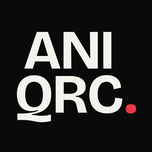
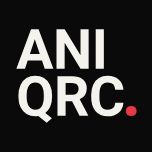
Add files via upload

Changed region(s): [[0.1053, 0.1842, 0.9211, 0.8158], [0.7368, 0.5, 0.8158, 0.6053]]

diff --git a/anteprima-intro-3d.html b/anteprima-intro-3d.html
@@ -7,11 +7,11 @@
 <title>ANIQRC — Anteprima intro 3D</title>
 <link rel="preconnect" href="https://fonts.googleapis.com">
 <link rel="preconnect" href="https://fonts.gstatic.com" crossorigin>
-<link href="https://fonts.googleapis.com/css2?family=Bricolage+Grotesque:opsz,wght@12..96,300..800&family=Manrope:wght@300;400;500;600;700&family=JetBrains+Mono:wght@400;500&display=swap" rel="stylesheet">
+<link href="https://fonts.googleapis.com/css2?family=Roboto:ital,wght@0,300;0,400;0,500;0,700;0,900;1,400&display=swap" rel="stylesheet">
 <style>
   :root{ --bg:#F4F2EC; --ink:#0A0A0A; --ink-soft:#34332F; --accent:#E63946; }
   *{ margin:0; padding:0; box-sizing:border-box; }
-  body{ background:var(--bg); font-family:'Manrope',sans-serif; overflow:hidden; }
+  body{ background:var(--bg); font-family:'Roboto',sans-serif; overflow:hidden; }
 
   #intro{ position:fixed; inset:0; z-index:10; background:#0C0B0A; display:flex; align-items:center; justify-content:center; overflow:hidden; animation: introDawn 1.15s cubic-bezier(.4,0,.2,1) 5.6s forwards; }
   @keyframes introDawn{ from{ background-color:#0C0B0A; } to{ background-color:#F4F2EC; } }
@@ -22,7 +22,7 @@
   @keyframes glowIn{ to{opacity:1;} } @keyframes glowOut{ to{opacity:0;} }
 
   .intro-stage{ position:relative; z-index:3; display:flex; flex-direction:column; align-items:center; gap:30px; text-align:center; padding:24px; }
-  .intro-tag{ font-family:'Bricolage Grotesque',sans-serif; font-weight:500; font-size:clamp(16px,2.6vw,26px); letter-spacing:-.01em; color:#E9E4D7; max-width:660px; line-height:1.34; text-shadow:0 2px 34px rgba(0,0,0,.55); animation: tagOut .8s ease 5.35s forwards; }
+  .intro-tag{ font-family:'Roboto',sans-serif; font-weight:500; font-size:clamp(16px,2.6vw,26px); letter-spacing:-0.0055em; color:#E9E4D7; max-width:660px; line-height:1.34; text-shadow:0 2px 34px rgba(0,0,0,.55); animation: tagOut .8s ease 5.35s forwards; }
   .intro-tag span{ display:inline-block; opacity:0; transform:translateY(12px); filter:blur(8px); animation: tagw 1s cubic-bezier(.3,.85,.3,1) forwards; animation-delay: calc(.55s + var(--w) * .09s); }
   .intro-tag .hl{ color:#FF5A66; font-weight:600; }
   @keyframes tagw{ to{ opacity:1; transform:none; filter:blur(0);} }
@@ -45,16 +45,16 @@
   @keyframes ipH{ 0%{opacity:0; transform:scaleX(0);} 100%{opacity:1; transform:scaleX(1);} }
   @keyframes ipDot{ 0%{opacity:0; transform:scale(0);} 45%{opacity:1; transform:scale(2.4); filter:drop-shadow(0 0 16px rgba(230,57,70,.95));} 100%{opacity:1; transform:scale(1); filter:drop-shadow(0 0 5px rgba(230,57,70,.4));} }
   @keyframes ipLens{ 0%{opacity:0; transform:translate(200px,200px) rotate(765deg);} 16%{opacity:1;} 100%{opacity:1; transform:translate(200px,200px) rotate(45deg);} }
-  .intro-word{ font-family:'Bricolage Grotesque',sans-serif; font-weight:700; font-size:clamp(50px,10vw,108px); letter-spacing:-.055em; line-height:1; color:var(--ink); display:flex; perspective:600px; }
+  .intro-word{ font-family:'Roboto',sans-serif; font-weight:700; font-size:clamp(50px,10vw,108px); letter-spacing:-0.0303em; line-height:1; color:var(--ink); display:flex; perspective:600px; }
   .intro-word span{ display:inline-block; opacity:0; transform-origin:50% 100%; transform:rotateX(-95deg) translateY(.22em); animation: letter3d 1s cubic-bezier(.2,.85,.25,1) forwards; animation-delay: calc(7.7s + var(--i) * .12s); }
   .intro-word .q{ color:var(--accent); }
   @keyframes letter3d{ 0%{opacity:0; transform:rotateX(-95deg) translateY(.22em);} 55%{opacity:1;} 100%{opacity:1; transform:rotateX(0) translateY(0);} }
-  .intro-sub{ font-family:'Manrope',sans-serif; font-weight:600; font-size:clamp(12.5px,2vw,16px); letter-spacing:.14em; text-transform:uppercase; color:var(--ink-soft); opacity:0; transform:translateY(8px); animation: subIn 1s ease 8.5s forwards; }
+  .intro-sub{ font-family:'Roboto',sans-serif; font-weight:600; font-size:clamp(12.5px,2vw,16px); letter-spacing:.14em; text-transform:uppercase; color:var(--ink-soft); opacity:0; transform:translateY(8px); animation: subIn 1s ease 8.5s forwards; }
   @keyframes subIn{ to{opacity:1; transform:none;} }
 
-  .replay{ position:fixed; left:20px; bottom:18px; z-index:50; font-family:'JetBrains Mono',monospace; font-size:12px; letter-spacing:.16em; text-transform:uppercase; color:var(--ink); background:#FBFAF6; border:1px solid #D4D0C5; border-radius:999px; padding:10px 16px; cursor:pointer; display:inline-flex; gap:9px; align-items:center; box-shadow:0 6px 20px rgba(20,18,14,.12); transition:transform .2s ease, border-color .2s ease; }
+  .replay{ position:fixed; left:20px; bottom:18px; z-index:50; font-family:'Roboto',sans-serif; font-size:12px; letter-spacing:.16em; text-transform:uppercase; color:var(--ink); background:#FBFAF6; border:1px solid #D4D0C5; border-radius:999px; padding:10px 16px; cursor:pointer; display:inline-flex; gap:9px; align-items:center; box-shadow:0 6px 20px rgba(20,18,14,.12); transition:transform .2s ease, border-color .2s ease; }
   .replay:hover{ transform:translateY(-1px); border-color:var(--accent); color:var(--accent); }
-  .hint{ position:fixed; right:20px; bottom:20px; z-index:50; font-family:'JetBrains Mono',monospace; font-size:11px; letter-spacing:.12em; color:#75736B; }
+  .hint{ position:fixed; right:20px; bottom:20px; z-index:50; font-family:'Roboto',sans-serif; font-size:11px; letter-spacing:.12em; color:#75736B; }
 </style>
 </head>
 <body>
@@ -96,7 +96,7 @@ function initScene(){
   var scene=new THREE.Scene(); scene.fog=new THREE.FogExp2(0x0c0b0a,0.0125);
   var camera=new THREE.PerspectiveCamera(54,W/H,0.1,400); camera.position.set(0,0,72);
   var WORDS=[{t:'Sicurezza',s:1,c:0},{t:'Prevenzione',s:.92,c:1},{t:'Near miss',s:.8,c:0},{t:'Audit',s:.86,c:1},{t:'Eventi sentinella',s:.74,c:0},{t:'Checklist',s:.9,c:0},{t:'Barriere',s:.95,c:0},{t:'Evidenze',s:.84,c:0},{t:'Qualità',s:1,c:1},{t:'Procedure',s:.82,c:0},{t:'Esiti',s:.8,c:0},{t:'Cultura',s:.8,c:0}];
-  function makeText(txt,red){ var fs=96,pad=26,cv=document.createElement('canvas'),ctx=cv.getContext('2d'); var font="600 "+fs+"px 'Bricolage Grotesque', system-ui, sans-serif"; ctx.font=font; var w=Math.ceil(ctx.measureText(txt).width)+pad*2,h=fs+pad*2; cv.width=w; cv.height=h; ctx.font=font; ctx.textAlign='center'; ctx.textBaseline='middle'; if(red){ctx.shadowColor='rgba(230,57,70,.55)';ctx.shadowBlur=30;ctx.fillStyle='#FF6470';}else{ctx.fillStyle='#E9E4D7';} ctx.fillText(txt,w/2,h/2); var tex=new THREE.CanvasTexture(cv); tex.anisotropy=4; return {tex:tex,aspect:w/h}; }
+  function makeText(txt,red){ var fs=96,pad=26,cv=document.createElement('canvas'),ctx=cv.getContext('2d'); var font="600 "+fs+"px 'Roboto', system-ui, sans-serif"; ctx.font=font; var w=Math.ceil(ctx.measureText(txt).width)+pad*2,h=fs+pad*2; cv.width=w; cv.height=h; ctx.font=font; ctx.textAlign='center'; ctx.textBaseline='middle'; if(red){ctx.shadowColor='rgba(230,57,70,.55)';ctx.shadowBlur=30;ctx.fillStyle='#FF6470';}else{ctx.fillStyle='#E9E4D7';} ctx.fillText(txt,w/2,h/2); var tex=new THREE.CanvasTexture(cv); tex.anisotropy=4; return {tex:tex,aspect:w/h}; }
   var words=[];
   for(var i=0;i<WORDS.length;i++){ var wd=WORDS[i],red=wd.c===1,o=makeText(wd.t,red); var mat=new THREE.MeshBasicMaterial({map:o.tex,transparent:true,opacity:0,depthWrite:false}); var hgt=3.5*wd.s,wid=hgt*o.aspect; var m=new THREE.Mesh(new THREE.PlaneGeometry(wid,hgt),mat); var ang=(i/WORDS.length)*Math.PI*2+(i%2?0.6:0),rad=13+(i%4)*4+Math.random()*5; m.position.set(Math.cos(ang)*rad*(0.7+Math.random()*0.5),(Math.random()*2-1)*15,-6-i*4.4-Math.random()*4); m.userData={base:0.4+(red?0.2:0.07),flare:0,drift:(Math.random()*0.6+0.2)*(i%2?1:-1),phase:Math.random()*6.28}; scene.add(m); words.push(m); }
   function radial(color,size,op){ var cv=document.createElement('canvas'); cv.width=cv.height=128; var ctx=cv.getContext('2d'); var g=ctx.createRadialGradient(64,64,0,64,64,64); g.addColorStop(0,'rgba('+color+',1)'); g.addColorStop(.25,'rgba('+color+',.7)'); g.addColorStop(1,'rgba('+color+',0)'); ctx.fillStyle=g; ctx.fillRect(0,0,128,128); var sp=new THREE.Sprite(new THREE.SpriteMaterial({map:new THREE.CanvasTexture(cv),transparent:true,blending:THREE.AdditiveBlending,depthWrite:false,depthTest:false,opacity:(op==null?1:op)})); sp.scale.set(size,size,1); return sp; }

diff --git a/adesione.html b/adesione.html
@@ -26,12 +26,12 @@
 <meta name="twitter:image" content="https://aniqrc.it/og-image.png">
 <link rel="preconnect" href="https://fonts.googleapis.com">
 <link rel="preconnect" href="https://fonts.gstatic.com" crossorigin>
-<link href="https://fonts.googleapis.com/css2?family=Bricolage+Grotesque:opsz,wght@12..96,300..800&family=Manrope:wght@300;400;500;600;700&family=JetBrains+Mono:wght@400;500&display=swap" rel="stylesheet">
+<link href="https://fonts.googleapis.com/css2?family=Roboto:ital,wght@0,300;0,400;0,500;0,700;0,900;1,400&display=swap" rel="stylesheet">
 <style>
   :root { --bg:#F4F2EC; --bg-warm:#EAE6DC; --bg-card:#FBFAF6; --ink:#0A0A0A; --soft:#34332F; --mute:#75736B; --accent:#E63946; --accent-deep:#C0202E; --rule:#D4D0C5; }
   * { margin:0; padding:0; box-sizing:border-box; }
   html { scroll-behavior:smooth; }
-  body { background:var(--bg); color:var(--ink); font-family:'Manrope',sans-serif; line-height:1.6; -webkit-font-smoothing:antialiased; }
+  body { background:var(--bg); color:var(--ink); font-family:'Roboto',sans-serif; line-height:1.6; -webkit-font-smoothing:antialiased; }
   .wrap { max-width:880px; margin:0 auto; padding:0 28px; }
   ::selection { background:var(--accent); color:var(--bg); }
 
@@ -39,20 +39,20 @@
   .nav-inner { max-width:1240px; margin:0 auto; padding:16px 28px; display:flex; justify-content:space-between; align-items:center; }
   .nav-logo { display:flex; align-items:center; gap:12px; text-decoration:none; }
   .nav-logo .nm { width:34px; height:34px; }
-  .nav-logo .nt { font-family:'Bricolage Grotesque',sans-serif; font-weight:700; font-size:20px; letter-spacing:-0.03em; color:var(--ink); }
+  .nav-logo .nt { font-family:'Roboto',sans-serif; font-weight:700; font-size:20px; letter-spacing:-0.0165em; color:var(--ink); }
   .nav-logo .nt .q { color:var(--accent); }
-  .nav-back { font-family:'JetBrains Mono',monospace; font-size:12px; letter-spacing:0.1em; text-transform:uppercase; color:var(--mute); text-decoration:none; }
+  .nav-back { font-family:'Roboto',sans-serif; font-size:12px; letter-spacing:0.1em; text-transform:uppercase; color:var(--mute); text-decoration:none; }
   .nav-back:hover { color:var(--accent); }
 
   header.hd { padding:64px 0 36px; }
-  .eyebrow { font-family:'JetBrains Mono',monospace; font-size:12px; letter-spacing:0.28em; text-transform:uppercase; color:var(--accent); margin-bottom:18px; }
-  h1 { font-family:'Bricolage Grotesque',sans-serif; font-weight:600; font-size:clamp(36px,6vw,60px); letter-spacing:-0.035em; line-height:1; margin-bottom:18px; }
+  .eyebrow { font-family:'Roboto',sans-serif; font-size:12px; letter-spacing:0.28em; text-transform:uppercase; color:var(--accent); margin-bottom:18px; }
+  h1 { font-family:'Roboto',sans-serif; font-weight:600; font-size:clamp(36px,6vw,60px); letter-spacing:-0.0193em; line-height:1; margin-bottom:18px; }
   h1 .q { color:var(--accent); }
   .lead { font-size:17px; color:var(--soft); max-width:620px; }
 
   form { padding-bottom:80px; }
   .grp { margin-top:40px; }
-  .grp-title { font-family:'JetBrains Mono',monospace; font-size:12px; letter-spacing:0.2em; text-transform:uppercase; color:var(--accent); margin-bottom:18px; display:flex; align-items:center; gap:12px; }
+  .grp-title { font-family:'Roboto',sans-serif; font-size:12px; letter-spacing:0.2em; text-transform:uppercase; color:var(--accent); margin-bottom:18px; display:flex; align-items:center; gap:12px; }
   .grp-title::before { content:''; width:24px; height:1.5px; background:var(--accent); }
   .fields { display:grid; grid-template-columns:1fr 1fr; gap:18px; }
   @media (max-width:640px){ .fields { grid-template-columns:1fr; } }
@@ -62,7 +62,7 @@
   label .req { color:var(--accent); }
   input[type=text], input[type=email], input[type=tel], select, textarea {
     background:var(--bg-card); border:1.5px solid var(--rule); border-radius:8px;
-    padding:13px 16px; font-family:'Manrope',sans-serif; font-size:15px; color:var(--ink);
+    padding:13px 16px; font-family:'Roboto',sans-serif; font-size:15px; color:var(--ink);
     transition:border-color 0.25s, background 0.25s; width:100%;
   }
   input:focus, select:focus, textarea:focus { outline:none; border-color:var(--accent); background:#fff; }
@@ -74,13 +74,13 @@
   .consent .choice { align-items:flex-start; margin-bottom:14px; font-size:14px; }
   .consent .choice:last-child { margin-bottom:0; }
   .consent a { color:var(--accent); }
-  .btn { display:inline-flex; align-items:center; gap:10px; padding:16px 34px; border-radius:0; font-size:16px; font-weight:600; border:none; cursor:pointer; background:var(--accent); color:var(--bg); transition:all 0.3s cubic-bezier(0.16,1,0.3,1); margin-top:32px; font-family:'Manrope',sans-serif; }
+  .btn { display:inline-flex; align-items:center; gap:10px; padding:16px 34px; border-radius:0; font-size:16px; font-weight:600; border:none; cursor:pointer; background:var(--accent); color:var(--bg); transition:all 0.3s cubic-bezier(0.16,1,0.3,1); margin-top:32px; font-family:'Roboto',sans-serif; }
   .btn:hover { background:var(--accent-deep); transform:translateY(-2px); box-shadow:0 8px 24px rgba(230,57,70,0.28); }
   .alt { margin-top:20px; font-size:14px; color:var(--mute); }
   .alt a { color:var(--accent); }
 
   footer { background:var(--ink); color:var(--bg); padding:40px 0; }
-  .foot-inner { max-width:1240px; margin:0 auto; padding:0 28px; display:flex; justify-content:space-between; align-items:center; flex-wrap:wrap; gap:16px; font-family:'JetBrains Mono',monospace; font-size:11px; letter-spacing:0.12em; text-transform:uppercase; color:rgba(244,242,236,0.55); }
+  .foot-inner { max-width:1240px; margin:0 auto; padding:0 28px; display:flex; justify-content:space-between; align-items:center; flex-wrap:wrap; gap:16px; font-family:'Roboto',sans-serif; font-size:11px; letter-spacing:0.12em; text-transform:uppercase; color:rgba(244,242,236,0.55); }
   .foot-inner .q { color:var(--accent); }
 </style>
 <script type="application/ld+json">
@@ -208,7 +208,7 @@
     </fieldset>
 
     <div style="margin-top: 20px;">
-        <button type="submit" style="padding: 10px 20px; cursor: pointer;">Invia la domanda →</button>
+        <button type="submit" class="btn" style="margin-top:0;">Invia la domanda <span aria-hidden="true">→</span></button>
     </div>
 </form><p class="splitforms-attribution" style="margin-top:12px;font-size:11px;color:#888;text-align:right">
   Powered by <a href="https://splitforms.com" style="color:#888;text-decoration:none" target="_blank" rel="sponsored noopener">splitforms</a>

diff --git a/anteprima-mobile.html b/anteprima-mobile.html
@@ -6,14 +6,14 @@
 <meta name="viewport" content="width=device-width, initial-scale=1.0">
 <title>ANIQRC — Anteprima mobile / app</title>
 <style>
-  body{ margin:0; min-height:100vh; background:#2A2824; color:#EDE8DC; font-family:system-ui,sans-serif; display:flex; flex-direction:column; align-items:center; gap:16px; padding:26px 14px 48px; }
+  body{ margin:0; min-height:100vh; background:#2A2824; color:#EDE8DC; font-family:'Roboto',system-ui,sans-serif; display:flex; flex-direction:column; align-items:center; gap:16px; padding:26px 14px 48px; }
   h1{ font-size:18px; font-weight:600; margin:4px 0 0; }
   p.note{ max-width:560px; text-align:center; font-size:13.5px; line-height:1.5; color:#B9B3A7; margin:0 0 6px; }
   .phone{ width:392px; max-width:96vw; height:792px; max-height:82vh; background:#000; border-radius:42px; padding:12px; box-shadow:0 30px 80px rgba(0,0,0,.5); position:relative; }
   .phone::before{ content:''; position:absolute; top:20px; left:50%; transform:translateX(-50%); width:120px; height:26px; background:#000; border-radius:0 0 16px 16px; z-index:5; }
   .phone iframe{ width:100%; height:100%; border:0; border-radius:32px; background:#F4F2EC; display:block; }
   .row{ display:flex; gap:10px; flex-wrap:wrap; justify-content:center; }
-  .row button{ font-family:'JetBrains Mono',monospace; font-size:12px; letter-spacing:.06em; background:#EDE8DC; color:#1a1a1a; border:0; border-radius:999px; padding:9px 15px; cursor:pointer; }
+  .row button{ font-family:'Roboto',sans-serif; font-size:12px; letter-spacing:.06em; background:#EDE8DC; color:#1a1a1a; border:0; border-radius:999px; padding:9px 15px; cursor:pointer; }
 </style>
 </head>
 <body>
@@ -29,17 +29,17 @@
 <script>
 var INNER = [
 '<!DOCTYPE html><html lang="it"><head><meta charset="UTF-8"><meta name="viewport" content="width=device-width, initial-scale=1">',
-'<link href="https://fonts.googleapis.com/css2?family=Bricolage+Grotesque:opsz,wght@12..96,300..800&family=Manrope:wght@300;400;500;600;700&family=JetBrains+Mono:wght@400;500&display=swap" rel="stylesheet">',
+'<link href="https://fonts.googleapis.com/css2?family=Roboto:ital,wght@0,300;0,400;0,500;0,700;0,900;1,400&display=swap" rel="stylesheet">',
 '<style>',
 ':root{--bg:#F4F2EC;--bg-warm:#EAE6DC;--bg-card:#FBFAF6;--ink:#0A0A0A;--ink-soft:#34332F;--ink-mute:#75736B;--accent:#E63946;--rule:#D4D0C5;--rule-soft:#E2DED4;}',
 'html[data-theme="dark"]{--bg:#15140F;--bg-warm:#1C1A14;--bg-card:#201E18;--ink:#F2EFE8;--ink-soft:#CFC9BD;--ink-mute:#938E83;--rule:#34322B;--rule-soft:#2A2822;--accent:#F2616E;}',
 '*{margin:0;padding:0;box-sizing:border-box;-webkit-tap-highlight-color:transparent;}',
-'body{background:var(--bg);color:var(--ink);font-family:Manrope,sans-serif;line-height:1.6;transition:background .5s,color .5s;overflow-x:hidden;}',
+'body{background:var(--bg);color:var(--ink);font-family:Roboto,sans-serif;line-height:1.6;transition:background .5s,color .5s;overflow-x:hidden;}',
 'nav{position:fixed;top:0;left:0;right:0;z-index:100;background:color-mix(in srgb,var(--bg) 86%,transparent);backdrop-filter:blur(12px);border-bottom:1px solid var(--rule);}',
 '.nav-inner{display:flex;justify-content:space-between;align-items:center;padding:12px 18px;}',
 '.nav-logo{display:flex;align-items:center;gap:9px;text-decoration:none;}',
 '.nav-logo .nm{width:30px;height:30px;}',
-'.nav-logo .nt{font-family:Bricolage Grotesque,sans-serif;font-weight:700;font-size:19px;letter-spacing:-.03em;color:var(--ink);}',
+'.nav-logo .nt{font-family:Roboto,sans-serif;font-weight:700;font-size:19px;letter-spacing:-0.0165em;color:var(--ink);}',
 '.nav-logo .nt .q{color:var(--accent);}',
 '.nav-links{display:flex;gap:26px;align-items:center;}',
 '.nav-links a{font-size:14px;color:var(--ink-soft);text-decoration:none;}',
@@ -65,16 +65,16 @@ var INNER = [
 '}',
 '.wrap{max-width:1100px;margin:0 auto;padding:0 22px;position:relative;z-index:2;}',
 '.hero{min-height:78vh;display:flex;flex-direction:column;justify-content:center;}',
-'.eyebrow{font-family:JetBrains Mono,monospace;font-size:11px;letter-spacing:.2em;text-transform:uppercase;color:var(--ink-mute);margin-bottom:18px;}',
-'h1{font-family:Bricolage Grotesque,sans-serif;font-weight:800;font-size:clamp(44px,16vw,80px);line-height:.96;letter-spacing:-.05em;}',
+'.eyebrow{font-family:Roboto,sans-serif;font-size:11px;letter-spacing:.2em;text-transform:uppercase;color:var(--ink-mute);margin-bottom:18px;}',
+'h1{font-family:Roboto,sans-serif;font-weight:800;font-size:clamp(44px,16vw,80px);line-height:.96;letter-spacing:-0.0275em;}',
 'h1 .q{color:var(--accent);}',
 '.lead{font-size:17px;color:var(--ink-soft);max-width:540px;margin-top:20px;}',
 'section{position:relative;z-index:2;padding:64px 0;}',
-'.sec-label{font-family:JetBrains Mono,monospace;font-size:11px;letter-spacing:.2em;text-transform:uppercase;color:var(--accent);margin-bottom:14px;}',
-'h2{font-family:Bricolage Grotesque,sans-serif;font-weight:700;font-size:clamp(26px,7vw,38px);letter-spacing:-.03em;margin-bottom:14px;}',
+'.sec-label{font-family:Roboto,sans-serif;font-size:11px;letter-spacing:.2em;text-transform:uppercase;color:var(--accent);margin-bottom:14px;}',
+'h2{font-family:Roboto,sans-serif;font-weight:700;font-size:clamp(26px,7vw,38px);letter-spacing:-0.0165em;margin-bottom:14px;}',
 '.cards{display:grid;grid-template-columns:1fr;gap:14px;margin-top:24px;}',
 '.card{background:var(--bg-card);border:1px solid var(--rule);border-radius:16px;padding:22px;}',
-'.card h3{font-family:Bricolage Grotesque,sans-serif;font-size:19px;margin-bottom:6px;}',
+'.card h3{font-family:Roboto,sans-serif;font-size:19px;margin-bottom:6px;}',
 '.card p{color:var(--ink-mute);font-size:14px;}',
 '.manifesto{background:var(--ink);color:var(--bg);border-radius:22px;margin:0 18px;}',
 'html[data-theme="dark"] .manifesto{background:#100F0B;color:#F2EFE8;}',

diff --git a/anteprima-sfondo-aurora.html b/anteprima-sfondo-aurora.html
@@ -7,39 +7,39 @@
 <title>ANIQRC — Anteprima sfondo aurora</title>
 <link rel="preconnect" href="https://fonts.googleapis.com">
 <link rel="preconnect" href="https://fonts.gstatic.com" crossorigin>
-<link href="https://fonts.googleapis.com/css2?family=Bricolage+Grotesque:opsz,wght@12..96,300..800&family=Manrope:wght@300;400;500;600;700&family=JetBrains+Mono:wght@400;500&display=swap" rel="stylesheet">
+<link href="https://fonts.googleapis.com/css2?family=Roboto:ital,wght@0,300;0,400;0,500;0,700;0,900;1,400&display=swap" rel="stylesheet">
 <style>
   :root{ --bg:#F4F2EC; --bg-warm:#EAE6DC; --bg-card:#FBFAF6; --ink:#0A0A0A; --ink-soft:#34332F; --ink-mute:#75736B; --accent:#E63946; --rule:#D4D0C5; }
   html[data-theme="dark"]{ --bg:#15140F; --bg-warm:#1C1A14; --bg-card:#201E18; --ink:#F2EFE8; --ink-soft:#CFC9BD; --ink-mute:#938E83; --rule:#34322B; --accent:#F2616E; }
   *{ margin:0; padding:0; box-sizing:border-box; }
-  body{ background:var(--bg); color:var(--ink); font-family:'Manrope',sans-serif; line-height:1.6; -webkit-font-smoothing:antialiased; transition:background .5s ease, color .5s ease; }
+  body{ background:var(--bg); color:var(--ink); font-family:'Roboto',sans-serif; line-height:1.6; -webkit-font-smoothing:antialiased; transition:background .5s ease, color .5s ease; }
   .wrap{ max-width:1100px; margin:0 auto; padding:0 28px; position:relative; z-index:2; }
   nav{ position:fixed; top:0; left:0; right:0; z-index:100; backdrop-filter:blur(14px); background:color-mix(in srgb, var(--bg) 82%, transparent); border-bottom:1px solid var(--rule); }
   .nav-inner{ max-width:1100px; margin:0 auto; padding:14px 28px; display:flex; justify-content:space-between; align-items:center; }
-  .logo{ font-family:'Bricolage Grotesque',sans-serif; font-weight:700; font-size:20px; letter-spacing:-.03em; }
+  .logo{ font-family:'Roboto',sans-serif; font-weight:700; font-size:20px; letter-spacing:-0.0165em; }
   .logo .q{ color:var(--accent); }
   .nav-links{ display:flex; gap:24px; font-size:13.5px; color:var(--ink-soft); }
   .hero{ position:relative; min-height:96vh; display:flex; flex-direction:column; justify-content:center; }
-  .eyebrow{ font-family:'JetBrains Mono',monospace; font-size:12px; letter-spacing:.22em; text-transform:uppercase; color:var(--ink-mute); margin-bottom:22px; }
-  h1{ font-family:'Bricolage Grotesque',sans-serif; font-weight:800; font-size:clamp(48px,9vw,118px); line-height:.98; letter-spacing:-.05em; }
+  .eyebrow{ font-family:'Roboto',sans-serif; font-size:12px; letter-spacing:.22em; text-transform:uppercase; color:var(--ink-mute); margin-bottom:22px; }
+  h1{ font-family:'Roboto',sans-serif; font-weight:800; font-size:clamp(48px,9vw,118px); line-height:.98; letter-spacing:-0.0275em; }
   h1 .q{ color:var(--accent); }
   .lead{ font-size:clamp(17px,2.2vw,22px); color:var(--ink-soft); max-width:620px; margin-top:26px; }
   section{ position:relative; z-index:2; padding:90px 0; }
-  .sec-label{ font-family:'JetBrains Mono',monospace; font-size:12px; letter-spacing:.2em; text-transform:uppercase; color:var(--accent); margin-bottom:18px; }
-  h2{ font-family:'Bricolage Grotesque',sans-serif; font-weight:700; font-size:clamp(28px,4vw,46px); letter-spacing:-.03em; margin-bottom:18px; }
+  .sec-label{ font-family:'Roboto',sans-serif; font-size:12px; letter-spacing:.2em; text-transform:uppercase; color:var(--accent); margin-bottom:18px; }
+  h2{ font-family:'Roboto',sans-serif; font-weight:700; font-size:clamp(28px,4vw,46px); letter-spacing:-0.0165em; margin-bottom:18px; }
   p.body{ color:var(--ink-soft); max-width:680px; }
   .cards{ display:grid; grid-template-columns:repeat(3,1fr); gap:18px; margin-top:34px; }
   @media(max-width:820px){ .cards{ grid-template-columns:1fr; } }
   .card{ background:var(--bg-card); border:1px solid var(--rule); border-radius:16px; padding:26px; box-shadow:0 10px 30px rgba(20,18,14,.06); }
-  .card h3{ font-family:'Bricolage Grotesque',sans-serif; font-size:20px; margin-bottom:8px; }
+  .card h3{ font-family:'Roboto',sans-serif; font-size:20px; margin-bottom:8px; }
   .card p{ color:var(--ink-mute); font-size:14.5px; }
   .manifesto{ background:var(--ink); color:var(--bg); border-radius:24px; margin:0 28px; }
   html[data-theme="dark"] .manifesto{ background:#100F0B; color:#F2EFE8; }
   .manifesto .wrap{ padding-top:70px; padding-bottom:70px; }
   .manifesto h2{ color:inherit; }
   .manifesto p{ color:inherit; opacity:.82; max-width:680px; }
-  .toggle{ position:fixed; right:18px; bottom:18px; z-index:200; font-family:'JetBrains Mono',monospace; font-size:12px; letter-spacing:.14em; text-transform:uppercase; color:var(--ink); background:var(--bg-card); border:1px solid var(--rule); border-radius:999px; padding:11px 18px; cursor:pointer; box-shadow:0 8px 22px rgba(20,18,14,.14); }
-  .hint{ position:fixed; left:18px; bottom:18px; z-index:200; font-family:'JetBrains Mono',monospace; font-size:11px; letter-spacing:.1em; color:var(--ink-mute); }
+  .toggle{ position:fixed; right:18px; bottom:18px; z-index:200; font-family:'Roboto',sans-serif; font-size:12px; letter-spacing:.14em; text-transform:uppercase; color:var(--ink); background:var(--bg-card); border:1px solid var(--rule); border-radius:999px; padding:11px 18px; cursor:pointer; box-shadow:0 8px 22px rgba(20,18,14,.14); }
+  .hint{ position:fixed; left:18px; bottom:18px; z-index:200; font-family:'Roboto',sans-serif; font-size:11px; letter-spacing:.1em; color:var(--ink-mute); }
 </style>
 </head>
 <body>

diff --git a/404.html b/404.html
@@ -9,16 +9,16 @@
 <link rel="icon" type="image/svg+xml" href="/favicon.svg">
 <link rel="preconnect" href="https://fonts.googleapis.com">
 <link rel="preconnect" href="https://fonts.gstatic.com" crossorigin>
-<link href="https://fonts.googleapis.com/css2?family=Bricolage+Grotesque:opsz,wght@12..96,300..800&family=Manrope:wght@300;400;500;600&display=swap" rel="stylesheet">
+<link href="https://fonts.googleapis.com/css2?family=Roboto:ital,wght@0,300;0,400;0,500;0,700;0,900;1,400&display=swap" rel="stylesheet">
 <style>
   *{margin:0;padding:0;box-sizing:border-box}
-  body{background:#F4F2EC;color:#0A0A0A;font-family:'Manrope',sans-serif;line-height:1.6;
+  body{background:#F4F2EC;color:#0A0A0A;font-family:'Roboto',sans-serif;line-height:1.6;
        min-height:100vh;display:flex;align-items:center;justify-content:center;padding:32px}
   .wrap{max-width:560px;text-align:center}
-  .code{font-family:'JetBrains Mono',ui-monospace,monospace;font-size:13px;letter-spacing:.14em;
+  .code{font-family:'Roboto',sans-serif;font-size:13px;letter-spacing:.14em;
         text-transform:uppercase;color:#75736B;margin-bottom:20px}
-  h1{font-family:'Bricolage Grotesque',sans-serif;font-size:clamp(32px,6vw,50px);
-     font-weight:600;line-height:1.1;letter-spacing:-.02em;margin-bottom:16px}
+  h1{font-family:'Roboto',sans-serif;font-size:clamp(32px,6vw,50px);
+     font-weight:600;line-height:1.1;letter-spacing:-0.011em;margin-bottom:16px}
   h1 .q{color:#E63946}
   p{color:#34332F;margin-bottom:32px}
   .actions{display:flex;flex-wrap:wrap;gap:12px;justify-content:center}

diff --git a/aniqrc-app.js b/aniqrc-app.js
@@ -33,7 +33,7 @@
     'nav.am .nav-links .nav-search,nav.am .nav-links .nav-theme{width:42px;height:42px;margin-top:12px;border-bottom:0 !important;}'+
     'nav.am .nav-links .nl-short{display:inline !important;} nav.am .nav-links .nl-full{display:none !important;}'+
   '}'+
-  '.am-install{position:fixed;left:50%;transform:translateX(-50%);bottom:16px;z-index:300;display:none;align-items:center;gap:12px;font-family:"JetBrains Mono",monospace;font-size:12.5px;letter-spacing:.03em;color:#fff;background:var(--accent,#E63946);border:0;border-radius:0;padding:12px 16px 12px 18px;box-shadow:0 12px 30px rgba(230,57,70,.34);cursor:pointer;}'+
+  '.am-install{position:fixed;left:50%;transform:translateX(-50%);bottom:16px;z-index:300;display:none;align-items:center;gap:12px;font-family:"Roboto",sans-serif;font-size:12.5px;letter-spacing:.03em;color:#fff;background:var(--accent,#E63946);border:0;border-radius:0;padding:12px 16px 12px 18px;box-shadow:0 12px 30px rgba(230,57,70,.34);cursor:pointer;}'+
   '.am-install.show{display:inline-flex;}'+
   '.am-install b{font-weight:600;}'+
   '.am-install .x{display:inline-flex;width:20px;height:20px;align-items:center;justify-content:center;border-radius:0;background:rgba(255,255,255,.22);font-size:13px;}';
